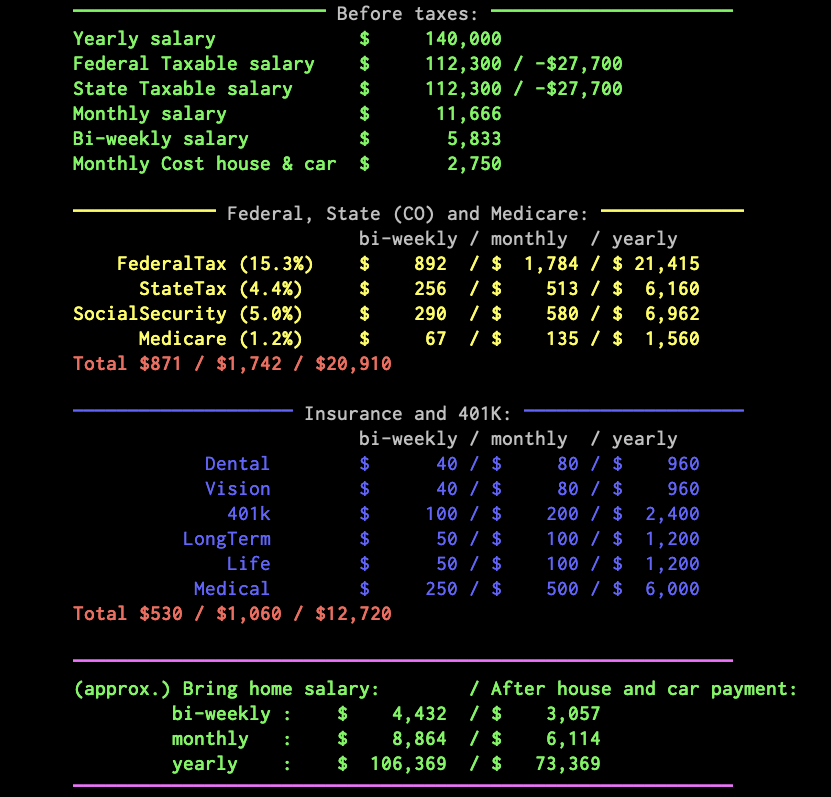
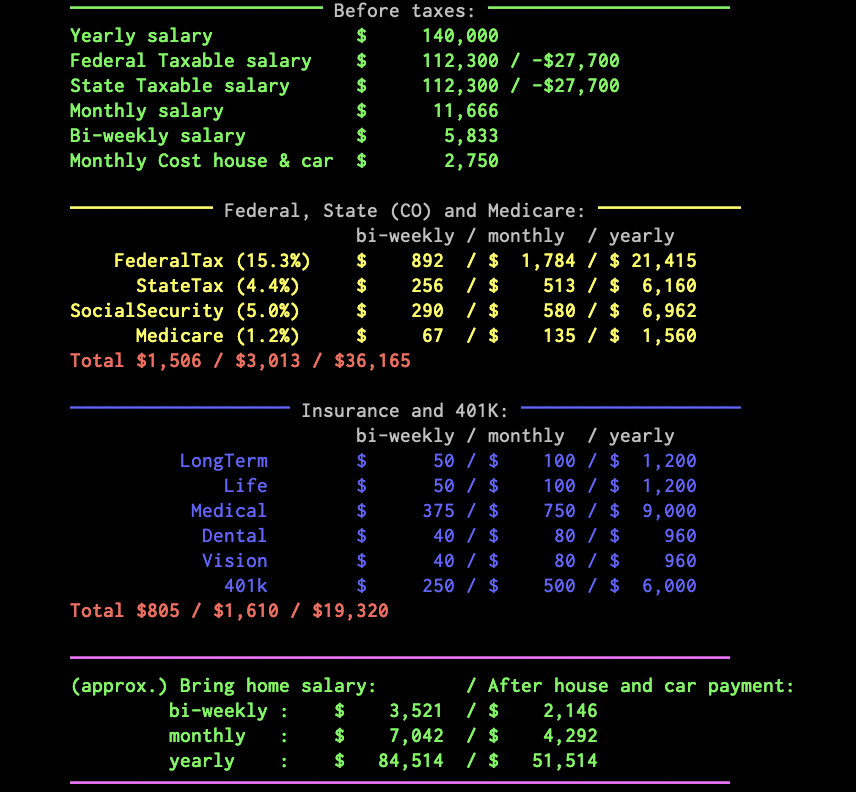
release 0.0.3d calculation bug fixed
new output example with correct shown values

diff --git a/mod/vars/vars.go b/mod/vars/vars.go
@@ -16,7 +16,7 @@ import (
 )
 
 var (
-	MyVersion   = "0.0.3c"
+	MyVersion   = "0.0.3d"
 	now         = time.Now()
 	MyProgname  = path.Base(os.Args[0])
 	myAuthor    = "Luc Suryo"

diff --git a/CHANGELOG/CHANGELOG-0.0.3d.md b/CHANGELOG/CHANGELOG-0.0.3d.md
@@ -1,0 +1,12 @@
+# v0.0.3d
+
+## INFO
+- calculation bug fixed
+
+### Binaries
+
+filename | sha256 hash
+-------- | ------------
[3 lines of base64/hex data omitted]
